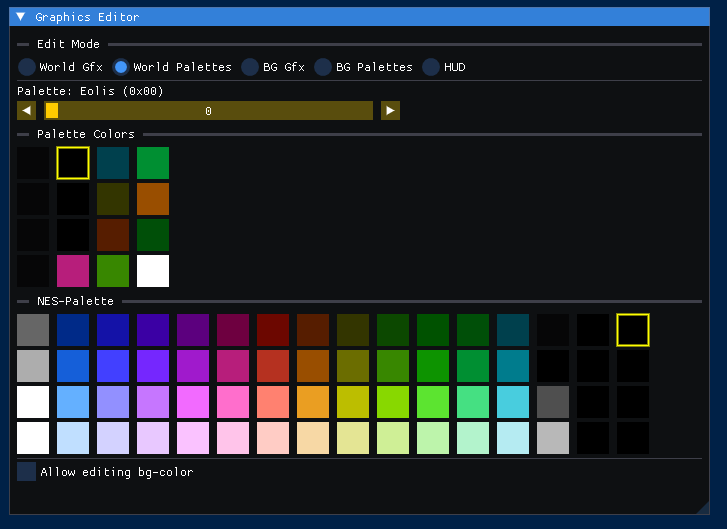
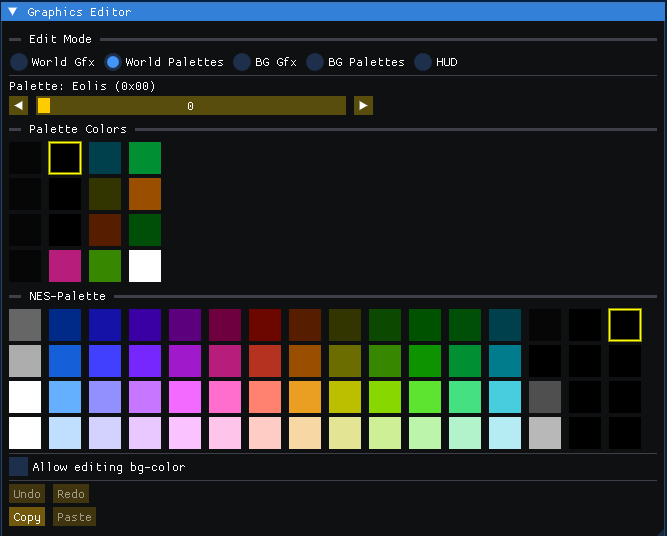
Update docs for release beta-5.1

diff --git a/docs/doc.md b/docs/doc.md
@@ -1,12 +1,12 @@
 # Echoes of Eolis - User Documentation
 
-This is the user documentation for Echoes of Eolis (version beta-5), a Faxanadu data editor which can be found on its [GitHub repository](https://github.com/kaimitai/faxedit/). It is assumed that users are somewhat acquainted with Faxanadu on the NES.
+This is the user documentation for Echoes of Eolis (version beta-5.1), a Faxanadu data editor which can be found on its [GitHub repository](https://github.com/kaimitai/faxedit/). It is assumed that users are somewhat acquainted with Faxanadu on the NES.
 
 <hr>
 
 You can start the editor with a filename parameter to make the editor load a given ROM, or use the file picker that appears if no ROM is loaded at startup, to select a file to load. The editor depends on a ROM being loaded and cannot be used without one.
 
-It also depends on configuration file eoe_config.xml being present, as this file contains necessary constants per ROM region.
+It also depends on configuration file eoe_config.xml being present, as this file contains necessary constants per ROM region. This configuration file contains the needed information to know which ROM region you are using, and how to read and write data from it - which differs between regions.
 
 The editor will automatically deduce the ROM region, unless you specify it as a command-line parameter following a ROM-filename.
 
@@ -210,7 +210,7 @@ Metatiles are defined on a per-world basis, and are used to make tilemaps for al
 
 The tiles on the bottom are chr-tiles used by this world's tilemap, and are used to define the metatile graphics. One chr-tile for each of the four quadrants of the metatile.
 
-Right-clicking on the metatile will place the selected NES-tile on the clicked quadrant. Ctrl+Right Click will select the NES-tile from the clicked quadrant. ("color picker"). We are including this functionality for completeness' sake.
+Right-clicking on the metatile will place the selected NES-tile on the clicked quadrant. Ctrl+Left Click will select the NES-tile from the clicked quadrant. ("color picker").
 
 The other things you can change for a metatile are the following:
 
@@ -265,6 +265,8 @@ This tab allows you to change some default settings of the current world; palett
 For the buildings world, each screen has a definition here, and for buildings you can also define the entry position when you enter a door to building.
 
 Default palette and music can be overriden using same-world doors and palette to music mappings.
+
+Note that on player death or restore, the tileset for the Guru room your start in is hard coded in the game to be 6. The same happens when you beat the game and are transported to the King's room.
 
 ## Mattock Animation
 
@@ -326,6 +328,10 @@ The controls for making a screen tilemap image is as follows:
 * Ctrl+C: Copy rectangular area to clipboard (one clipboard per world)
 * Ctrl+V: Paste clipboard at selected tilemap position of clipboard fits
 * Shit+V: Show clipboard rectangle at position if it fits, without pasting anything. To see where your clipboard data would be pasted.
+* Ctrl+Z: Undo the last action
+* Ctrl+Y: Redo the last undone action
+
+The undo and redo have a history of 250 steps. Destructive structural changes - deleting a screen or a metatile definition - will clear all the undo history for the related world.
 
 The clipboards are per-world since the metatile definitions are world-specific.
 
@@ -396,7 +402,7 @@ You can add or remove doors of all types at any time. No reference check is nece
 
 When in Door-editing mode, Shift+Click moves the door entry position to the clicked position on the tilemap. Ctrl+Click moves the exit position.
 
-If the door is not of building-type, and the door destination is unambiguous, an "Enter Door"-button will let you go to the door destination while taking palette setting into account. (we do not go to buildings since the screens are templated)
+If the door destination is unambiguous, an "Enter Door"-button will let you go to the door destination while taking palette setting into account.
 
 Note: The "Towns" world does not support same-world doors due to special handling in the game's logic.
 
@@ -487,7 +493,7 @@ The importer will not generate any new metatiles, it will only update the graphi
 
 ## World palettes
 
-![World gfx](./img/win_gfx_world_palette.png)
+![World palette](./img/win_gfx_world_palette.png)
 
 This screen allows you to change the 4 sub-palettes for any of the world-palettes.
 
@@ -495,9 +501,13 @@ The sub-palettes show at the top as a 4x4 grid, and the full NES-palette shows a
 
 We have a checkbox "Allow editing bg-color", which users can toggle to edit the first color of each sub-palette. Faxanadu seems to set this to color $0f (black) regardless of value in ROM, so there is little use in changing this color unless you have a modified ROM which does not enforce this.
 
+The Undo and Redo buttons are per palette. The copy and paste buttons apply to the entire palette as a whole.
+
+Note that palette 16 is used by the Title Screen graphic, so we only allow editing this palette in the BG Gfx section. It can be used as the default palette for a world in the Scenes metadata, however.
+
 ## Background gfx
 
-![World gfx](./img/win_gfx_bg_gfx.png)
+![BG gfx](./img/win_gfx_bg_gfx.png)
 
 This screen functions similarly to the World Gfx screen, but deals with background tilemaps instead; The title, intro and outro screen - as well as a virtual tilemap for the items when rendered as background objects (and not as sprites).
 
@@ -505,11 +515,11 @@ The intro and outro screens share tileset, and both must be extracted from ROM t
 
 ## Background palettes
 
-This screen works the same way as the world palettes, but applies to the palettes used by the background screens. For the items tilemap we defined a palette, but in the game the palette used depends on the world - and items can look different in different contexts.
+This screen works the same way as the world palettes, but applies to the palettes used by the background screens. For the items tilemap we defined a palette, but in the game the palette used depends on the world's palette - and items can look different in different contexts.
 
 ## HUD
 
-![World gfx](./img/win_gfx_hud.png)
+![HUD](./img/win_gfx_hud.png)
 
 For completeness' sake we have a HUD-editor with a preview.
 
@@ -531,7 +541,7 @@ Try to use sub-palettes which have distinct colors. If you have two indexes of t
 
 If you need your chr-tiles to be rendered under several sub-palettes ensure the colors you want to match have the same index. If you want the color yellow under one sub-palette to be red under another sub-palette, the red and yellow color must have the same index. Otherwise more chr-tiles must be generated, even if the graphics are otherwise identical.
 
-The hardest gfx to make is the intro and outro screens. They are rendered under two different palettes, your chr-tile bank consists of 128 tiles - but you need to render 2 screens which are drawn with a total of 1920 tiles - in other words a lot of re-use is necessary.
+The hardest gfx to make is the intro and outro screens. They are rendered under two different palettes, their **shared** chr-tile bank consists of 128 tiles - but you need to render 2 screens which are drawn with a total of 1920 tiles - in other words a lot of re-use is necessary.
 
 You can start by importing a totally blank bmp to one of them and commit, that will free up all tiles for the other - and once you have a result for one of them, you can iteratively generate the other.
 

diff --git a/readme.md b/readme.md
@@ -39,19 +39,44 @@ The editor can save your project as a patched NES ROM file or as an IPS patch. W
 
 <hr>
 
-### Upcoming changes
+### Recommended Workflow
 
-The following features have been completed in the development branch, and will be released soon:
+The editor allows you to work directly on ROM files, and for small or experimental changes this is perfectly fine. A ROM contains all necessary data, and you can patch and save it repeatedly without needing any external files other than ```eoe_config.xml```.
 
-* Tilemap undo/redo feature with a generous history size
-* Store chr-tiles for the world tilesets in the data xml
-* Store game gfx images in the data xml; tilemap, attribute table, chr-tiles and palettes
-* Full support for the US revision A in the configuration xml (differs from the EU version only in the music data)
-* Will be bundled with the latest version of [FaxIScripts](https://github.com/kaimitai/FaxIScripts), with new support for editing music via an MML (music macro language) interface
+For larger or long‑term projects, however, it is strongly recommended to export your project data to XML and treat that XML file as your **primary source of truth**. The XML format stores all world tilesets, game graphics, palettes, tilemaps, and related metadata in a clean, editable, and version‑friendly way.
+
+If your project also involves editing **music** or **scripts** for use with [FaxIScripts](https://github.com/kaimitai/FaxIScripts), you should keep these text files as part of your project’s source as well. These text‑based assets integrate naturally with the project as a whole and will give you full control over every part of the game the editor and assembler support.
+
+Using a version control system such as **git** is highly encouraged. Text files (XML, scripts, music sources) are:
+
+- easy to diff  
+- easy to merge  
+- easy to revert  
+- acts as a backup system with file history
+
+These files are also **region‑agnostic** for the most part. (The only exception are strings in iScripts for the jp-region) When patching a ROM, the editor reads all region‑specific offsets and layout information from `eoe_config.xml`, ensuring that your exported data is always routed to the correct locations regardless of whether you’re working with EU, US, or US Rev A ROMs - or any custom compatible ROM hack - as long as it is defined in the configuration xml.
+
+In short:
+
+- **Small edits:** you can work directly on the ROM
+- **Serious projects:** keep XML + script/music sources under version control  
+- **ROM region differences:** handled automatically through configuration  
+
+This approach gives you a clean, reliable workflow and protects your work over time.
 
 <hr>
 
 ### Version History
+
+* 2025-01-28: version beta-5.1
+
+  * Added undo/redo for screen tilemap edits (250-step history)
+  * Added undo/redo for palette edits (250-step history)
+  * Added a palette clipboard for copying and pasting entire palettes
+  * World tileset chr-data is now stored in the data xml
+  * Game gfx images are now stored in the data xml (tilemap, attribute table, chr-tiles and palettes)
+  * Added full support for ROM region US revision A in the configuration xml (differs from EU version only in the music data)
+  * The application now asks for confirmation before closing when a ROM is loaded
 
 * 2025-12-21: version beta-5
 
